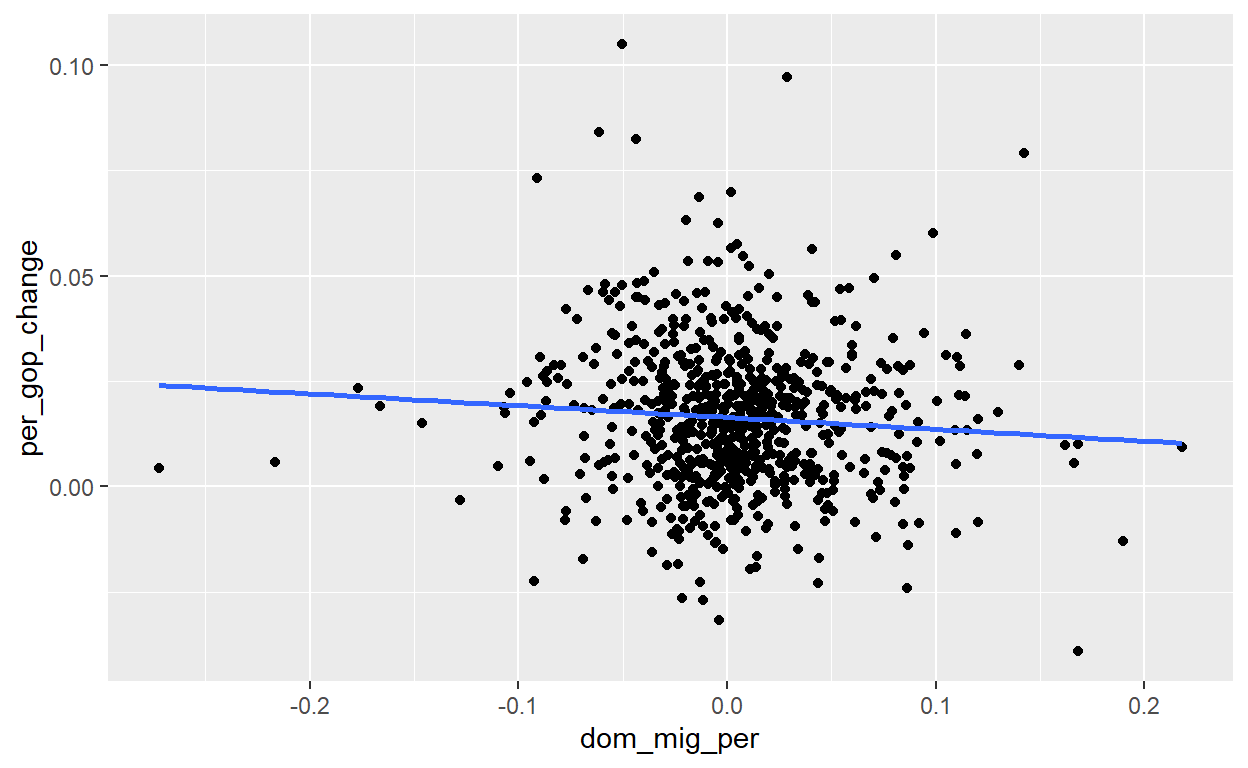
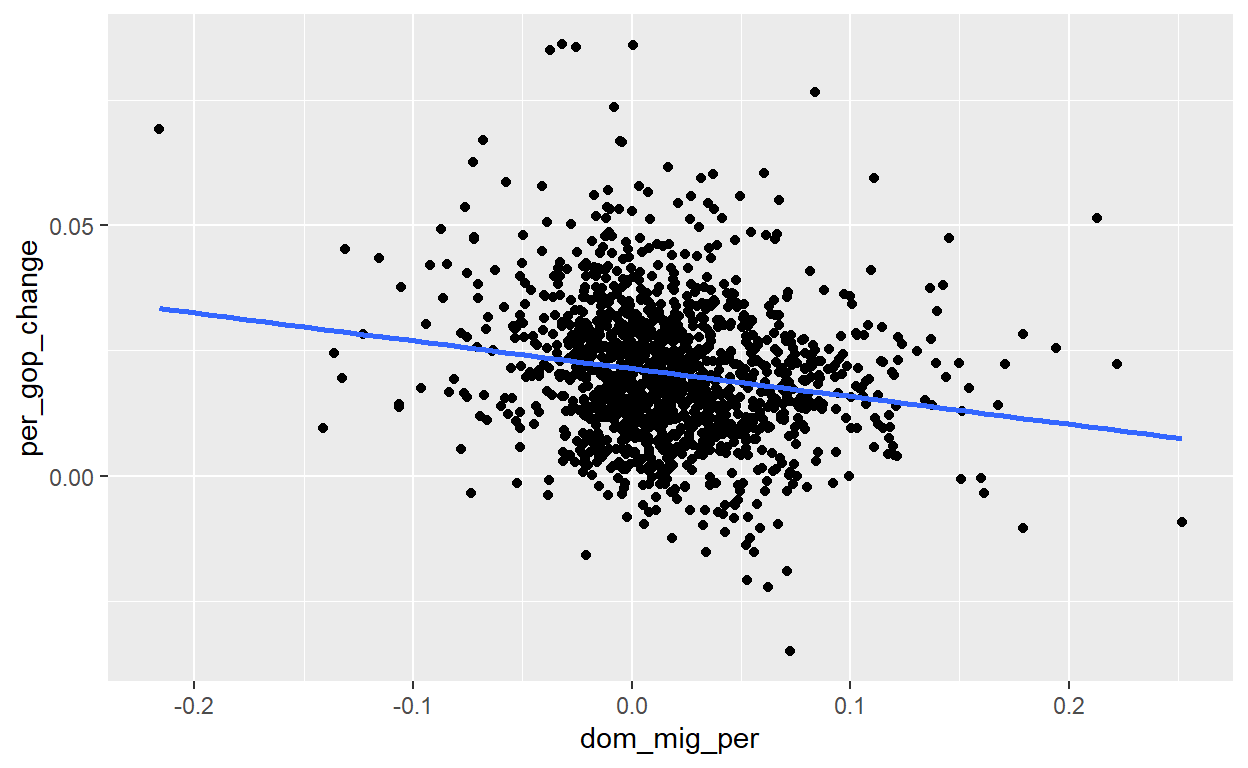
Intro + some Data Section

diff --git a/index.html b/index.html
@@ -116,7 +116,7 @@ code span.wa { color: #5e5e5e; font-style: italic; } /* Warning */
   <!--/radix_placeholder_rmarkdown_metadata-->
   
   <script type="text/json" id="radix-resource-manifest">
-  {"type":"character","attributes":{},"value":["index_files/anchor-4.2.2/anchor.min.js","index_files/bowser-1.9.3/bowser.min.js","index_files/distill-2.2.21/template.v2.js","index_files/figure-html5/unnamed-chunk-3-1.png","index_files/figure-html5/unnamed-chunk-4-1.png","index_files/figure-html5/unnamed-chunk-5-1.png","index_files/figure-html5/unnamed-chunk-6-1.png","index_files/figure-html5/unnamed-chunk-7-1.png","index_files/figure-html5/unnamed-chunk-8-1.png","index_files/header-attrs-2.17/header-attrs.js","index_files/header-attrs-2.30/header-attrs.js","index_files/jquery-3.6.0/jquery-3.6.0.js","index_files/jquery-3.6.0/jquery-3.6.0.min.js","index_files/jquery-3.6.0/jquery-3.6.0.min.map","index_files/popper-2.6.0/popper.min.js","index_files/tippy-6.2.7/tippy-bundle.umd.min.js","index_files/tippy-6.2.7/tippy-light-border.css","index_files/tippy-6.2.7/tippy.css","index_files/tippy-6.2.7/tippy.umd.min.js","index_files/webcomponents-2.0.0/webcomponents.js","pop_data/co-est2024-alldata.csv","pres_data/2020_US_County_Level_Presidential_Results.csv","pres_data/2024_US_County_Level_Presidential_Results.csv"]}
+  {"type":"character","attributes":{},"value":["index_files/anchor-4.2.2/anchor.min.js","index_files/bowser-1.9.3/bowser.min.js","index_files/distill-2.2.21/template.v2.js","index_files/figure-html5/unnamed-chunk-3-1.png","index_files/figure-html5/unnamed-chunk-3-2.png","index_files/figure-html5/unnamed-chunk-4-1.png","index_files/figure-html5/unnamed-chunk-5-1.png","index_files/figure-html5/unnamed-chunk-6-1.png","index_files/figure-html5/unnamed-chunk-7-1.png","index_files/figure-html5/unnamed-chunk-8-1.png","index_files/figure-html5/unnamed-chunk-9-1.png","index_files/header-attrs-2.17/header-attrs.js","index_files/header-attrs-2.30/header-attrs.js","index_files/jquery-3.6.0/jquery-3.6.0.js","index_files/jquery-3.6.0/jquery-3.6.0.min.js","index_files/jquery-3.6.0/jquery-3.6.0.min.map","index_files/popper-2.6.0/popper.min.js","index_files/tippy-6.2.7/tippy-bundle.umd.min.js","index_files/tippy-6.2.7/tippy-light-border.css","index_files/tippy-6.2.7/tippy.css","index_files/tippy-6.2.7/tippy.umd.min.js","index_files/webcomponents-2.0.0/webcomponents.js","pop_data/co-est2024-alldata.csv","pres_data/2020_US_County_Level_Presidential_Results.csv","pres_data/2024_US_County_Level_Presidential_Results.csv"]}
   </script>
   <!--radix_placeholder_navigation_in_header-->
   <!--/radix_placeholder_navigation_in_header-->
@@ -1544,14 +1544,9 @@ code span.wa { color: #5e5e5e; font-style: italic; } /* Warning */
 </div>
 
 <div class="d-article">
-<h2 id="project-description">Project Description</h2>
-<p>It is a common political complaint among conservative Americans that when people move in from out of state they “take their politics with them.” The three states with the largest exodus of population are solidly blue states with large blue metropolitan areas: California, Illinois, and New York. But is this trope actually true or is it borne out of some sort of large scale “survivorship bias”? In this study, each county in 48 states (excluding the District of Columbia, Alaska, and Connecticut for statistical reasons) will be used to compare their changes in voting patterns from the 2020 and 2024 Presidential Elections. In order to get a holistic view, the data will be organized by state, population, et cetera.This project will seek to answer, or at a minimum strive towards answering, whether the large flow of domestic migration has a major effect on electoral behaviors.</p>
-<div class="layout-chunk" data-layout="l-body">
-
-</div>
-<div class="layout-chunk" data-layout="l-body">
-
-</div>
+<h2 id="introduction">Introduction</h2>
+<p>It is a common political complaint among Americans in more conservative areas that when people move in from out of state they “take their politics with them.” The three states with the largest exodus of population are solidly blue states with large blue metropolitan areas: California, Illinois, and New York. But is this trope actually true or is it borne out of some sort of large scale “survivor-ship bias”? In this research, each county in 48 states (excluding the District of Columbia, Alaska, and Connecticut for statistical reasons) will be used to compare their changes in voting patterns from the 2020 and 2024 Presidential Elections and see if the proportionate net migration between those two elections had any effect on voting patterns. This project will seek to answer whether the flow of domestic migration into an area has a major effect on electoral behavior or, at minimum, if they coincide. Put more concisely, as the net domestic migration rate becomes proportionally greater in any given county, the share of votes going toward the GOP decreases on average. This research question and hypothesis is important to investigate because, if true, it allows political scientists and campaigns to better predict the changes a region could see to its partisan politics between election cycles so that they can adapt their studies accordingly.</p>
+<h2 id="data-section">Data Section</h2>
 <table>
 <colgroup>
 <col style="width: 21%" />
@@ -1565,50 +1560,101 @@ code span.wa { color: #5e5e5e; font-style: italic; } /* Warning */
 </thead>
 <tbody>
 <tr class="odd">
+<td style="text-align: left;"><code>state_name</code></td>
+<td style="text-align: left;">name of the state the county belongs to</td>
+</tr>
+<tr class="even">
 <td style="text-align: left;"><code>county_fips</code></td>
 <td style="text-align: left;">county identification number</td>
 </tr>
+<tr class="odd">
+<td style="text-align: left;"><code>county_name</code></td>
+<td style="text-align: left;">name of the county</td>
+</tr>
 <tr class="even">
-<td style="text-align: left;"><code>state_name</code></td>
-<td style="text-align: left;">participant assigned to CBT therapy (1) or not (0)</td>
+<td style="text-align: left;"><code>per_gop_2020</code></td>
+<td style="text-align: left;">The proportion of votes cast for a GOP president in the 2020 Election</td>
 </tr>
 <tr class="odd">
+<td style="text-align: left;"><code>per_gop_2024</code></td>
+<td style="text-align: left;">The proportion of votes cast for a GOP president in the 2024 Election</td>
+</tr>
+<tr class="even">
 <td style="text-align: left;"><code>per_gop_change</code></td>
-<td style="text-align: left;">participant assigned to cash grant (1) or not (0)</td>
-</tr>
-<tr class="even">
-<td style="text-align: left;"><code>dom_mig_per</code></td>
-<td style="text-align: left;">did the participant attend 80% of CBT sessions (1) or not (0)</td>
+<td style="text-align: left;">The change in the percent of GOP votes from 2020 to 2024</td>
 </tr>
 <tr class="odd">
+<td style="text-align: left;"><code>per_gop_change_adjusted</code></td>
+<td style="text-align: left;">per_gop_change adjusted for national difference in election results</td>
+</tr>
+<tr class="even">
+<td style="text-align: left;"><code>dom_mig_total</code></td>
+<td style="text-align: left;">The net domestic migration from 2020 to 2024</td>
+</tr>
+<tr class="odd">
+<td style="text-align: left;"><code>dom_mig_per</code></td>
+<td style="text-align: left;">The proportion of net domestic migration by 2020 population</td>
+</tr>
+<tr class="even">
 <td style="text-align: left;"><code>population_2020</code></td>
-<td style="text-align: left;">age of participant at the time of the study</td>
+<td style="text-align: left;">population in 2020</td>
 </tr>
 </tbody>
 </table>
-<h1 id="analysis-of-main-relationship">Analysis of Main Relationship</h1>
+<p>The data used in this experiment is a combination of three sets: 2020 Presidential Election Results by County, 2024 Presidential Election Results by County, and 2024 Census Population Estimates. The 2020 Presidential Election Results were</p>
 <div class="layout-chunk" data-layout="l-body">
-<p><img src="index_files/figure-html5/unnamed-chunk-3-1.png" alt="" width="624" /></p>
+
 </div>
-<p>This first graph simply plots each county in every state except for Alaska and Connecticut based on their net proportional domestic migration between the 2020 and 2024 elections and the change in the percent of votes that went to the GOP from the 2020 election to the 2024 election. The dashed line represents no change in vote share and the blue line represents the line of best fit. This graph has a clear negative correlation, meaning that as net proportional domestic migration increases the change in percent votes for the GOP in that county is, on average, likely to decrease. There are some flaws in this graph that hinder a perfect representation. The first flaw is that the national vote share for the GOP has not remained constant between 2020 and 2024; in fact, it increased by 2.95 percentage points.</p>
+<div class="layout-chunk" data-layout="l-body">
+
+</div>
+<div class="layout-chunk" data-layout="l-body">
+<div class="sourceCode">
+<pre class="sourceCode r"><code class="sourceCode r"><span><span class='va'>plot_dep_var</span> <span class='op'>&lt;-</span> <span class='va'>focused_per_gop</span> <span class='op'>|&gt;</span> <span class='fu'>ggplot</span><span class='op'>(</span>mapping <span class='op'>=</span> <span class='fu'>aes</span><span class='op'>(</span>x <span class='op'>=</span> <span class='op'>(</span><span class='va'>per_gop_change</span> <span class='op'>*</span> <span class='fl'>100</span><span class='op'>)</span><span class='op'>)</span><span class='op'>)</span> <span class='op'>+</span> </span>
+<span>  <span class='fu'>geom_histogram</span><span class='op'>(</span>binwidth <span class='op'>=</span> <span class='fl'>0.5</span><span class='op'>)</span> <span class='op'>+</span> </span>
+<span>  <span class='fu'>labs</span><span class='op'>(</span>title <span class='op'>=</span> <span class='st'>"Change in GOP Vote Share by County from 2020 to 2024"</span>, </span>
+<span>       x <span class='op'>=</span> <span class='st'>"Change in GOP Voteshare per County, 2020-2024 (percentage points)"</span>, </span>
+<span>       y <span class='op'>=</span> <span class='st'>"Number of Counties"</span>, </span>
+<span>       caption <span class='op'>=</span> <span class='st'>"Sources: 2024 PEP Census Data, 2020 and 2024 US House of Representatives Election Statistics"</span><span class='op'>)</span> <span class='op'>+</span> </span>
+<span>  <span class='fu'>theme</span><span class='op'>(</span>axis.title.x <span class='op'>=</span> <span class='fu'>element_text</span><span class='op'>(</span>size <span class='op'>=</span> <span class='fl'>8</span><span class='op'>)</span><span class='op'>)</span></span>
+<span><span class='va'>plot_dep_var</span></span></code></pre>
+</div>
+<img src="index_files/figure-html5/unnamed-chunk-3-1.png" alt="" width="624" />
+<div class="sourceCode">
+<pre class="sourceCode r"><code class="sourceCode r"><span><span class='va'>plot_dep_var_change</span> <span class='op'>&lt;-</span> <span class='va'>focused_per_gop</span> <span class='op'>|&gt;</span> <span class='fu'>ggplot</span><span class='op'>(</span>mapping <span class='op'>=</span> <span class='fu'>aes</span><span class='op'>(</span>x <span class='op'>=</span> <span class='op'>(</span><span class='va'>per_gop_change</span> <span class='op'>*</span> <span class='fl'>100</span><span class='op'>)</span><span class='op'>)</span><span class='op'>)</span> <span class='op'>+</span> </span>
+<span>  <span class='fu'>geom_histogram</span><span class='op'>(</span>binwidth <span class='op'>=</span> <span class='fl'>0.5</span><span class='op'>)</span> <span class='op'>+</span> </span>
+<span>  <span class='fu'>labs</span><span class='op'>(</span>title <span class='op'>=</span> <span class='st'>"Change in GOP Vote Share by County from 2020 to 2024"</span>, </span>
+<span>       x <span class='op'>=</span> <span class='st'>"Change in GOP Voteshare per County (adjusted), 2020-2024 (percentage points)"</span>, </span>
+<span>       y <span class='op'>=</span> <span class='st'>"Number of Counties"</span>, </span>
+<span>       caption <span class='op'>=</span> <span class='st'>"Sources: 2024 PEP Census Data, 2020 and 2024 US House of Representatives Election Statistics"</span><span class='op'>)</span> <span class='op'>+</span> </span>
+<span>  <span class='fu'>theme</span><span class='op'>(</span>axis.title.x <span class='op'>=</span> <span class='fu'>element_text</span><span class='op'>(</span>size <span class='op'>=</span> <span class='fl'>8</span><span class='op'>)</span><span class='op'>)</span></span>
+<span><span class='va'>plot_dep_var_change</span></span></code></pre>
+</div>
+<p><img src="index_files/figure-html5/unnamed-chunk-3-2.png" alt="" width="624" /></p>
+</div>
+<h1 id="analysis-of-main-relationship">Analysis of Main Relationship</h1>
 <div class="layout-chunk" data-layout="l-body">
 <p><img src="index_files/figure-html5/unnamed-chunk-4-1.png" alt="" width="624" /></p>
 </div>
-<p>This graph adjusts the former graph by showing the change of the percent of GOP votes from the national average. In other words, this value is found by subtracting the GOP percent in 2020 from 2024. This value is 2.95 percentage points (the same calculation for Democrats was -2.99 percentage points, so the third party share’s change was negligible). This table shows the exact same relationship as the previous graph, it is just adjusted so the vast swing of the national vote share doesn’t misrepresent the changes in each county. There is still another issue: not all these counties have the same population.</p>
+<p>This first graph simply plots each county in every state except for Alaska and Connecticut based on their net proportional domestic migration between the 2020 and 2024 elections and the change in the percent of votes that went to the GOP from the 2020 election to the 2024 election. The dashed line represents no change in vote share and the blue line represents the line of best fit. This graph has a clear negative correlation, meaning that as net proportional domestic migration increases the change in percent votes for the GOP in that county is, on average, likely to decrease. There are some flaws in this graph that hinder a perfect representation. The first flaw is that the national vote share for the GOP has not remained constant between 2020 and 2024; in fact, it increased by 2.95 percentage points.</p>
 <div class="layout-chunk" data-layout="l-body">
 <p><img src="index_files/figure-html5/unnamed-chunk-5-1.png" alt="" width="624" /></p>
+</div>
+<p>This graph adjusts the former graph by showing the change of the percent of GOP votes from the national average. In other words, this value is found by subtracting the GOP percent in 2020 from 2024. This value is 2.95 percentage points (the same calculation for Democrats was -2.99 percentage points, so the third party share’s change was negligible). This table shows the exact same relationship as the previous graph, it is just adjusted so the vast swing of the national vote share doesn’t misrepresent the changes in each county. There is still another issue: not all these counties have the same population.</p>
+<div class="layout-chunk" data-layout="l-body">
+<p><img src="index_files/figure-html5/unnamed-chunk-6-1.png" alt="" width="624" /></p>
 </div>
 <p>This third graph does the same thing as the second, except the line of best fit is calculated by weighting each data point (county) by its population. This means counties with a greater population will be considered as more consequential than one with a smaller population. Basically, if one county is 10,000 and the other 100,000, then the latter is weighted more. This graph shows that the magnitude of the negative relationship is actually greater when adjusted for population (more negative slope for the line of best fit), meaning this trend is possibly more common among more urban counties.</p>
 <p>These three graphs each move closer to the conclusion that counties with meaningful negative net domestic migration tend to increase their percentage of GOP votes and counties with meaningful positive net domestic migration tend to decrease their percentage of GOP votes. These two phenomenon become more likely and greater in magnitude when the magnitude of the net domestic migration is greater.</p>
 <h1 id="urban-vs.-rural-work-in-progress">Urban vs. Rural (work in progress)</h1>
 <div class="layout-chunk" data-layout="l-body">
-<p><img src="index_files/figure-html5/unnamed-chunk-6-1.png" alt="" width="624" /></p>
-</div>
-<div class="layout-chunk" data-layout="l-body">
 <p><img src="index_files/figure-html5/unnamed-chunk-7-1.png" alt="" width="624" /></p>
 </div>
 <div class="layout-chunk" data-layout="l-body">
 <p><img src="index_files/figure-html5/unnamed-chunk-8-1.png" alt="" width="624" /></p>
+</div>
+<div class="layout-chunk" data-layout="l-body">
+<p><img src="index_files/figure-html5/unnamed-chunk-9-1.png" alt="" width="624" /></p>
 </div>
 <div class="sourceCode" id="cb1"><pre class="sourceCode r distill-force-highlighting-css"><code class="sourceCode r"></code></pre></div>
 <!--radix_placeholder_article_footer-->
